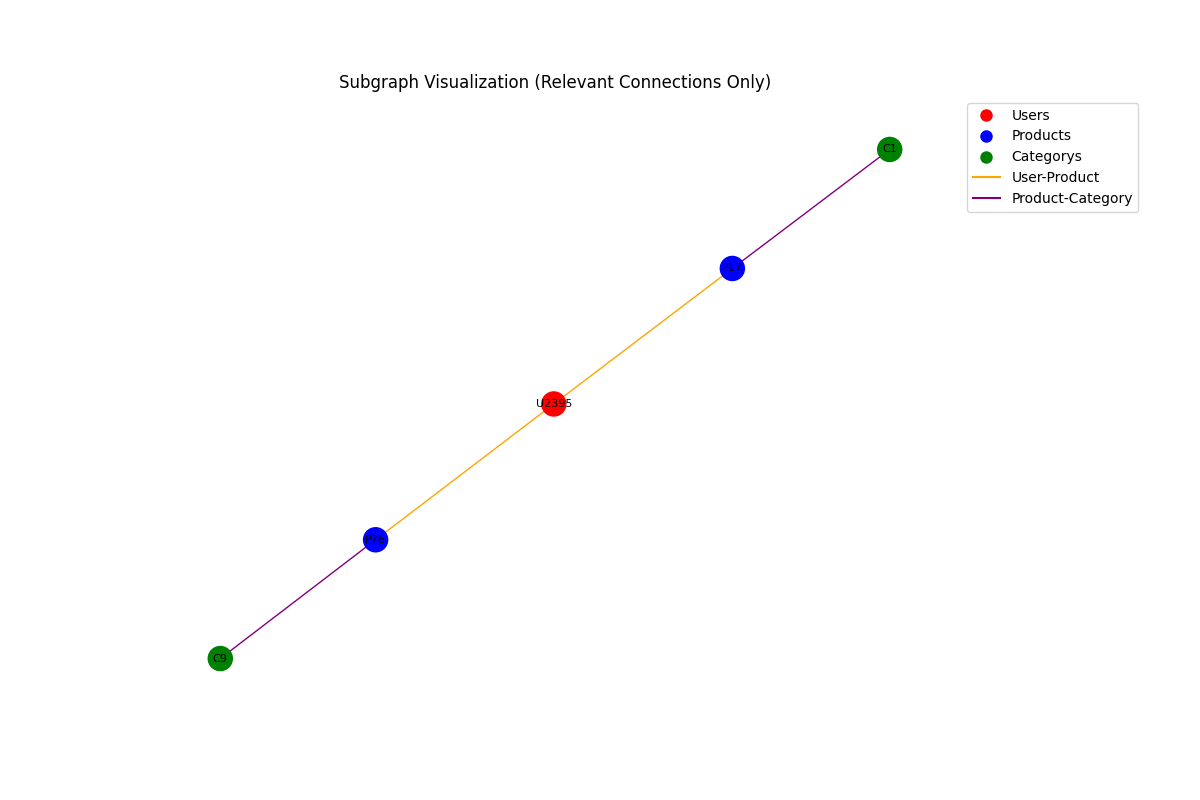
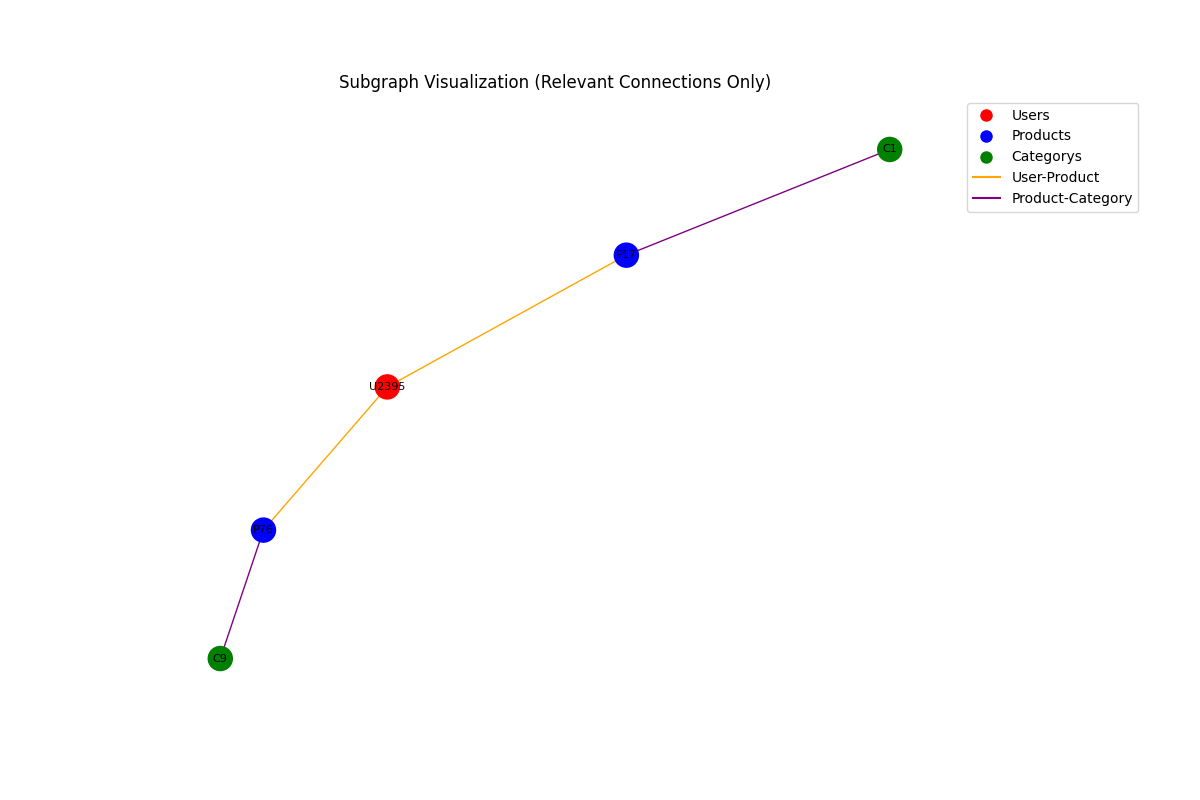
Made the code interactive with Plotly dash

diff --git a/main.py b/main.py
@@ -6,6 +6,13 @@ import matplotlib.pyplot as plt
 from typing import Any, Dict, List, Tuple, Callable
 import logging
 from dataclasses import dataclass, field
+import plotly.graph_objects as go
+from plotly.subplots import make_subplots
+import dash
+from dash import dcc, html, callback_context
+from dash.dependencies import Input, Output, State
+import os
+import signal
 
 # Constants
 NODE_COLOR_MAP = {"user": "red", "product": "blue", "category": "green"}
@@ -220,66 +227,166 @@ def extract_subgraph_with_multiple_conditions(graph: HeteroData, filters: Dict[s
 
     return subgraph, debug_info
 
+def create_interactive_subgraph(graph, filters):
+    """
+    Create an interactive subgraph visualization using Plotly.
+    
+    :param graph: PyTorch Geometric HeteroData object
+    :param filters: Dictionary of node types and their filter conditions
+    :return: Plotly Figure object
+    """
+    subgraph, debug_info = extract_subgraph_with_multiple_conditions(graph, filters)
+    
+    G = nx.Graph()
+    
+    # Add nodes and edges
+    for node_type in subgraph.node_types:
+        for i in range(subgraph[node_type].num_nodes):
+            G.add_node(f"{node_type}_{subgraph[node_type][f'{node_type}_id'][i]}", type=node_type)
+    
+    for edge_type in subgraph.edge_types:
+        src, _, dst = edge_type
+        edge_index = subgraph[edge_type].edge_index.t().tolist()
+        for src_idx, dst_idx in edge_index:
+            src_id = subgraph[src][f'{src}_id'][src_idx]
+            dst_id = subgraph[dst][f'{dst}_id'][dst_idx]
+            G.add_edge(f"{src}_{src_id}", f"{dst}_{dst_id}")
+    
+    # Create layout
+    pos = nx.spring_layout(G)
+    
+    # Create traces for nodes
+    node_traces = {}
+    for node_type in NODE_COLOR_MAP:
+        node_traces[node_type] = go.Scatter(
+            x=[],
+            y=[],
+            text=[],
+            mode='markers',
+            hoverinfo='text',
+            marker=dict(
+                color=NODE_COLOR_MAP[node_type],
+                size=10,
+            ),
+            name=node_type.capitalize()
+        )
+    
+    # Create traces for edges
+    edge_traces = {}
+    for edge_type in EDGE_COLOR_MAP:
+        edge_traces[edge_type] = go.Scatter(
+            x=[],
+            y=[],
+            line=dict(width=0.5, color=EDGE_COLOR_MAP[edge_type]),
+            hoverinfo='none',
+            mode='lines',
+            name=f"{edge_type[0].capitalize()}-{edge_type[1].capitalize()}"
+        )
+    
+    # Add node and edge positions to traces
+    for node in G.nodes():
+        x, y = pos[node]
+        node_type = G.nodes[node]['type']
+        node_traces[node_type]['x'] += (x,)
+        node_traces[node_type]['y'] += (y,)
+        node_traces[node_type]['text'] += (node,)
+    
+    for edge in G.edges():
+        x0, y0 = pos[edge[0]]
+        x1, y1 = pos[edge[1]]
+        edge_type = (G.nodes[edge[0]]['type'], G.nodes[edge[1]]['type'])
+        edge_traces[edge_type]['x'] += (x0, x1, None)
+        edge_traces[edge_type]['y'] += (y0, y1, None)
+    
+    # Create figure
+    fig = go.Figure(data=list(edge_traces.values()) + list(node_traces.values()))
+    fig.update_layout(
+        title="Interactive Subgraph Visualization",
+        showlegend=True,
+        hovermode='closest',
+        margin=dict(b=20,l=5,r=5,t=40),
+        annotations=[dict(
+            text="",
+            showarrow=False,
+            xref="paper", yref="paper",
+            x=0.005, y=-0.002
+        )],
+        xaxis=dict(showgrid=False, zeroline=False, showticklabels=False),
+        yaxis=dict(showgrid=False, zeroline=False, showticklabels=False)
+    )
+    
+    return fig
+
 def run_analysis(data_path: str, node_types: Dict[str, str], edge_types: List[Tuple[str, str, str]]) -> Dict[str, Any]:
     results = {}
     
     # Create heterogeneous graph
     graph = create_heterogeneous_graph(data_path, node_types, edge_types)
     
-    # Basic filtering
-    basic_filters = {
-        "user": lambda x: torch.bincount(graph["user", "purchased", "product"].edge_index[0]) > 0
+    # Create interactive visualization
+    initial_filters = {
+        "user": [lambda x: torch.ones(x.num_nodes, dtype=torch.bool)],
+        "product": [lambda x: torch.ones(x.num_nodes, dtype=torch.bool)],
+        "category": [lambda x: torch.ones(x.num_nodes, dtype=torch.bool)]
     }
-    basic_subgraph, basic_debug_info = extract_subgraph(graph, basic_filters)
-    basic_fig, basic_viz_debug_info = visualize_subgraph(basic_subgraph)
-    results['basic_filtering'] = {
-        'node_counts': {nt: basic_subgraph[nt].num_nodes for nt in basic_subgraph.node_types},
-        'debug_info': str(basic_debug_info),
-        'visualization': basic_fig,
-        'visualization_debug_info': str(basic_viz_debug_info)
-    }
-
-    # Advanced filtering
-    advanced_filters = {
-        "user": [
-            lambda x: torch.bincount(graph["user", "purchased", "product"].edge_index[0]) > 2,
-            lambda x: x.user_id != "U4278"
-        ],
-        "product": [
-            lambda x: x.product_id != "P83"
-        ],
-        "category": []
-    }
-    advanced_subgraph, advanced_debug_info = extract_subgraph_with_multiple_conditions(graph, advanced_filters)
-    advanced_fig, advanced_viz_debug_info = visualize_subgraph(advanced_subgraph)
-    results['advanced_filtering'] = {
-        'debug_info': str(advanced_debug_info),
-        'visualization': advanced_fig,
-        'visualization_debug_info': str(advanced_viz_debug_info)
-    }
-
-    # Popular product analysis
-    most_popular_product = find_most_popular_product(graph)
-    users_who_purchased = find_users_who_purchased_product(graph, most_popular_product)
-    results['popular_product_analysis'] = {
-        'most_popular_product': most_popular_product,
-        'users_who_purchased': users_who_purchased
-    }
+    interactive_fig = create_interactive_subgraph(graph, initial_filters)
+    results['interactive_visualization'] = interactive_fig
     
-    # Visualize subgraph of users who bought the most popular product
-    popular_product_filter = {
-        "user": [lambda x: torch.tensor([uid in users_who_purchased for uid in x.user_id])],
-        "product": [lambda x: x.product_id == most_popular_product]
-    }
-    popular_product_subgraph, popular_product_debug_info = extract_subgraph_with_multiple_conditions(graph, popular_product_filter)
-    popular_product_fig, popular_product_viz_debug_info = visualize_subgraph(popular_product_subgraph)
-    results['popular_product_subgraph'] = {
-        'debug_info': str(popular_product_debug_info),
-        'visualization': popular_product_fig,
-        'visualization_debug_info': str(popular_product_viz_debug_info)
-    }
+    # Create Dash app
+    app = dash.Dash(__name__)
+    
+    app.layout = html.Div([
+        dcc.Graph(id='subgraph-plot', figure=interactive_fig),
+        html.Div([
+            html.Label('User Filter:'),
+            dcc.Dropdown(
+                id='user-filter',
+                options=[
+                    {'label': 'All Users', 'value': 'all'},
+                    {'label': 'Users with > 2 purchases', 'value': 'active'}
+                ],
+                value='all'
+            ),
+            html.Label('Edge Count Filter:'),
+            dcc.Slider(
+                id='edge-count-filter',
+                min=0,
+                max=10,
+                step=1,
+                value=0,
+                marks={i: str(i) for i in range(11)}
+            )
+        ]),
+        html.Button('Quit Application', id='quit-button', n_clicks=0)
+    ])
+    
+    @app.callback(
+        Output('subgraph-plot', 'figure'),
+        [Input('user-filter', 'value'),
+         Input('edge-count-filter', 'value'),
+         Input('quit-button', 'n_clicks')]
+    )
+    def update_graph(user_filter, edge_count, n_clicks):
+        ctx = callback_context
+        if ctx.triggered and ctx.triggered[0]['prop_id'] == 'quit-button.n_clicks':
+            os.kill(os.getpid(), signal.SIGINT)
+            return dash.no_update
 
-    return results
+        filters = {
+            "user": [lambda x: torch.ones(x.num_nodes, dtype=torch.bool)],
+            "product": [lambda x: torch.ones(x.num_nodes, dtype=torch.bool)],
+            "category": [lambda x: torch.ones(x.num_nodes, dtype=torch.bool)]
+        }
+        
+        if user_filter == 'active':
+            filters["user"] = [lambda x: torch.bincount(graph["user", "purchased", "product"].edge_index[0]) > 2]
+        
+        if edge_count > 0:
+            filters["user"].append(lambda x: torch.bincount(graph["user", "purchased", "product"].edge_index[0]) > edge_count)
+        
+        return create_interactive_subgraph(graph, filters)
+    
+    return results, app
 
 if __name__ == "__main__":
     # Example data and parameters
@@ -295,28 +402,7 @@ if __name__ == "__main__":
     ]
     
     # Run analysis
-    analysis_results = run_analysis(data_path, node_types, edge_types)
+    analysis_results, app = run_analysis(data_path, node_types, edge_types)
     
-    # Here you can decide how to handle the results and visualizations
-    # For example:
-    
-    # Save visualizations to files
-    for analysis_type, data in analysis_results.items():
-        if 'visualization' in data and data['visualization'] is not None:
-            data['visualization'].savefig(f"{analysis_type}_visualization.png")
-            plt.close(data['visualization'])  # Close the figure to free up memory
-    
-    # Save results to a JSON file (excluding visualizations)
-    import json
-    
-    def serialize_results(obj):
-        if isinstance(obj, plt.Figure):
-            return "Figure object (not serialized)"
-        raise TypeError(f"Type {type(obj)} not serializable")
-    
-    with open("analysis_results.json", "w") as f:
-        json.dump(analysis_results, f, default=serialize_results, indent=2)
-    
-    logger.info("Analysis completed successfully.")
-    logger.info(f"Results saved to analysis_results.json")
-    logger.info(f"Visualizations saved as PNG files")
+    # Run the Dash app
+    app.run_server(debug=True)
